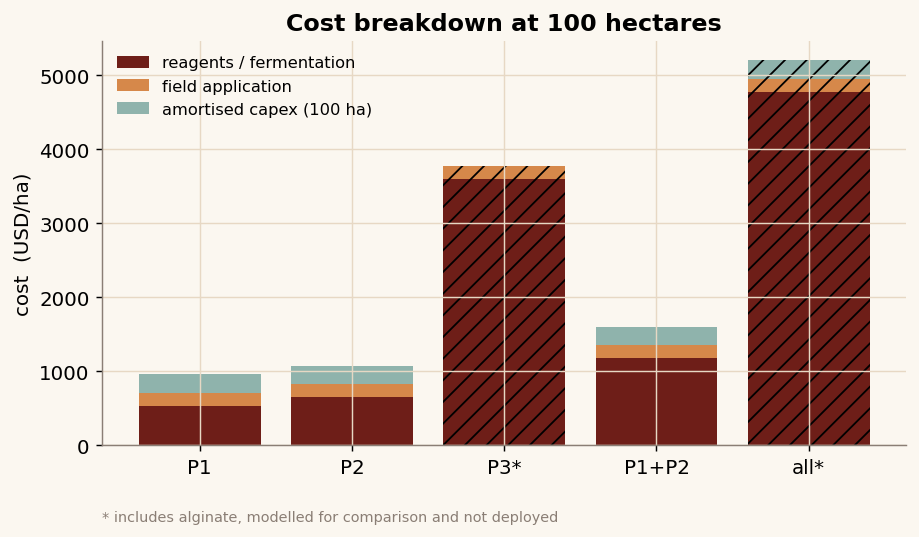
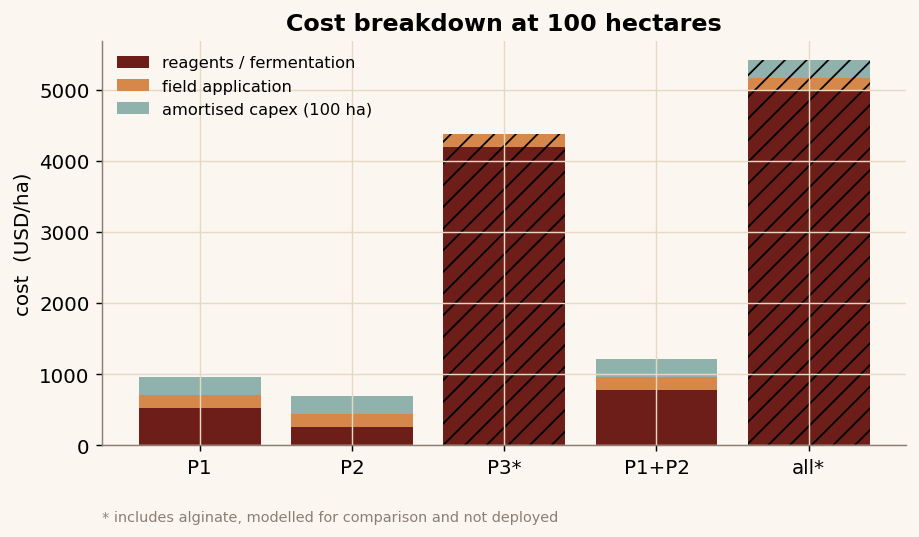
Scale MICP reagent with crust depth, reprice the baselines

diff --git a/src/lib/moduleSources.ts b/src/lib/moduleSources.ts
@@ -397,14 +397,14 @@ export const MODULE_SOURCES: Record<ModuleId, ModuleSources> = {
       {
         label: "Why our per-hectare figure is so far under that $135 per m³",
         detail:
-          "Spread over the 120 m³ of crust in a hectare, 650 USD is about 5 USD per m³. The gap is mostly real: those studies cement a whole soil column to a load-bearing strength, we grow a thin crust to resist wind, and our route makes carbonate from CO₂ rather than urea so it skips roughly 480 kg of urea per hectare. What remains unresolved is that the calcite cost here does not change when the crust depth changes, and depth is exactly what the comparison turns on.",
+          "650 USD buys the dose for a 12.5 mm crust, which is 125 m³ of soil in a hectare, so about 5 USD per m³. The dose scales with depth, so that per-m³ figure holds at any depth. The gap is mostly real: those studies cement a whole soil column to a load-bearing strength, we grow a thin crust to resist wind, and our route makes carbonate from CO₂ rather than urea so it skips roughly 480 kg of urea per hectare. The part we cannot yet check is whether one pore volume of reagent is really enough at depths well beyond the 12.5 mm field trial.",
         kind: "internal",
       },
       {
         label:
-          "Sodium-alginate market price, IMARC price trend (Sept 2025: US $13.2, Germany $10.6, Spain $8.9 kg⁻¹)",
+          "Sodium-alginate market price, IMARC price trend (Sept 2025: US $13.2, Germany $10.6, France $10.2, Spain $8.9 kg⁻¹)",
         detail:
-          "Our 9 USD per kg sits at the bottom of that spread and roughly 30 percent under the US price, so the alginate prong is costed optimistically.",
+          "We use 10.5 USD per kg, the middle of that spread. It is about 20 percent under the US price, so the alginate route is still costed slightly in its favour.",
         kind: "literature",
         url: "https://www.imarcgroup.com/sodium-alginate-price-trend",
       },
@@ -419,7 +419,7 @@ export const MODULE_SOURCES: Record<ModuleId, ModuleSources> = {
       {
         label: "Conventional baselines, and how soft they are",
         detail:
-          "Soilworks does not publish a price for Soiltac and gives its service life as anything from weeks to several years, so the 2800 USD per hectare chemical baseline is an estimate against a moving target. Published costs for the same kind of product come out higher, so if anything we are being hard on ourselves and the break-even area shown here is too large rather than too small. The concrete blanket figure is weaker still and should be read as a placeholder.",
+          "Soilworks does not publish a price for Soiltac and gives its service life as anything from weeks to several years, so the 2800 USD per hectare chemical baseline is an estimate against a moving target. Published costs for dust suppressants run from about 1,200 USD per hectare for a light copolymer blend to over 20,000 for heavier products. 2800 sits near the low end, so the break-even area shown here is more likely too large than too small. The concrete figure is sprayed concrete at 30 USD per m², the bottom of 2025 US contractor prices of 30 to 50 USD per m². It is a permanent surface rather than a treatment, so it sits on the chart for scale.",
         kind: "internal",
         url: "https://www.fs.usda.gov/t-d/pubs/pdf/99771207.pdf",
       },

diff --git a/src/lib/physics/constants.ts b/src/lib/physics/constants.ts
@@ -759,9 +759,23 @@ export const ECONOMIC_CALIB = {
   caReagentCostPerHa: calib(
     650,
     "USD·ha⁻¹",
-    "enzyme induction + Ca dosing per hectare",
+    "enzyme induction + Ca dosing for one hectare of crust at the reference depth below. Cross-checked against the Ulan Buh field recipe: 4 L·m⁻² of 0.2 M solution is ≈888 kg CaCl₂ per hectare, ≈$133 at bulk price, leaving ≈$517 for enzyme and inducer",
     "Cost calcium + inducer dosing for one treated hectare.",
     [200, 1500],
+  ),
+  /**
+   * The crust depth `caReagentCostPerHa` was costed at. Reagent is sprayed onto
+   * the surface and soaks roughly one pore volume down, so the dose scales with
+   * depth. Without this the calcite prong cost the same for a 5 mm crust as for
+   * a 50 mm one, which is the axis the comparison against published per-m³ MICP
+   * costs turns on.
+   */
+  caReagentReferenceDepthMm: calib(
+    12.5,
+    "mm",
+    "the crust the Ulan Buh field trial grew at 4 L·m⁻² and 0.2 M, which is where the per-hectare dose above comes from",
+    "Record the crust depth the dosing was costed against.",
+    [5, 30],
   ),
   co2CreditPerKg: calib(
     0.01,
@@ -772,11 +786,11 @@ export const ECONOMIC_CALIB = {
   ),
   // --- Prong 3: sodium alginate (purchased commodity) ---
   alginateCostPerKg: calib(
-    9.0,
+    10.5,
     "USD·kg⁻¹",
-    "food/technical-grade sodium alginate; within the 2024 bulk market band ≈ $6–12/kg (IMARC / Procurement Resource price trend)",
+    "food/technical-grade sodium alginate. IMARC price trend, Sept 2025: US $13.2, Germany $10.6, France $10.2, Spain $8.9 per kg. 10.5 is the middle of that spread; the earlier 9.0 sat at its floor",
     "Quote alginate + CaCl₂ crosslinker per kg applied.",
-    [4, 20],
+    [8, 20],
   ),
   alginateDoseKgPerHa: calib(
     400,
@@ -803,16 +817,16 @@ export const ECONOMIC_CALIB = {
   chemicalSprayCostPerHa: calib(
     2800,
     "USD·ha⁻¹",
-    'petrochemical dust-suppressant (polymer emulsion class; cf. USDA FS "Dust Palliative Selection and Application Guide", commercial Soiltac/Soilworks)',
+    "petrochemical dust suppressant. Published costs span a wide band: a light copolymer blend at ≈$490/acre (≈$1,200/ha), magnesium chloride at 0.3–0.5 gal/yd² and $0.80–1.50/gal (≈$2,900–9,000/ha), and chemical suppressants generally quoted at $0.50–2.00/yd² (≈$6,000–24,000/ha). 2800 is a deliberately low pick inside that band, so the comparison does not flatter us",
     "Vendor quote for conventional chemical stabiliser.",
-    [1500, 4000],
+    [1200, 24000],
   ),
   concreteBlanketCostPerHa: calib(
-    18500,
+    300000,
     "USD·ha⁻¹",
-    "hard-engineering blanket",
+    "hard-engineering blanket, priced off sprayed concrete at $30–50 m⁻² (Angi / HomeAdvisor 2025 contractor data, rising to $65 m⁻² in dense regions). 300000 USD·ha⁻¹ is $30 m⁻², the bottom of that range. The previous 18500 worked out at $1.85 m⁻², which no concrete surface can be laid for",
     "Contractor quote for concrete/aggregate matting.",
-    [10000, 30000],
+    [200000, 650000],
   ),
 } as const;
 

diff --git a/src/lib/moduleMath.ts b/src/lib/moduleMath.ts
@@ -307,14 +307,19 @@ export const MODULE_MATH: Record<ModuleId, ModuleMath> = {
       "Cost is built bottom-up per prong (fermentation for γ-PGA, feedstock + enzyme for CaCO₃, commodity purchase for alginate) then summed for the chosen combination and compared against conventional stabilisers.",
     blocks: [
       {
-        tex: "C_{\\text{combo}} = \\sum_{p \\in \\text{prongs}} C_p^{\\text{capex}} + A \\sum_{p} C_p^{\\text{opex/ha}}",
+        tex: "C_{\\text{combo}} = C^{\\text{capex}} + A \\left( \\sum_{p} C_p^{\\text{opex/ha}} + C^{\\text{app/ha}} \\right)",
         caption:
-          "Total cost of a combination: per-prong capital plus per-hectare operating cost over area A.",
+          "Total cost over area A. The two bacterial prongs share one bioprocess capex, and the field application pass is paid once per hectare whatever the combination.",
       },
       {
-        tex: "A_{\\text{break-even}} = \\frac{C^{\\text{capex}}}{C_{\\text{conv}}^{\\text{/ha}} - C^{\\text{opex/ha}}}",
+        tex: "C_2^{\\text{opex/ha}} = C_{\\text{Ca}}^{\\text{/ha}} \\, \\frac{h}{h_{\\text{ref}}} - p_{\\text{CO}_2} m_{\\text{CO}_2}",
         caption:
-          "Area at which the biological treatment undercuts the conventional chemical/concrete baseline.",
+          "The CaCO₃ dose soaks about one pore volume down, so it scales with crust depth h against the 12.5 mm depth it was costed at, less a small CO₂ credit.",
+      },
+      {
+        tex: "A_{\\text{break-even}} = \\frac{C^{\\text{capex}}}{C_{\\text{chem}}^{\\text{/ha}} - \\left( C^{\\text{opex/ha}} + C^{\\text{app/ha}} \\right)}",
+        caption:
+          "Area above which the treatment costs less than the chemical spray baseline. If the recurring cost is above the spray's, there is no break-even.",
       },
     ],
   },

diff --git a/src/lib/physics/economic.ts b/src/lib/physics/economic.ts
@@ -79,13 +79,22 @@ export function prongTreatmentCost(
 
   if (prong === 2) {
     // CaCO₃ / MICP: calcium + enzyme dosing, minus a CO₂ credit.
+    // The reagent is sprayed on and soaks about one pore volume down, so the
+    // dose goes with depth. Costing it flat made a 50 mm crust as cheap as a
+    // 5 mm one, and depth is exactly what separates this from the per-m³ figures
+    // published for full-depth biocementation.
+    const depthScale =
+      ctx.crustThicknessMm / cval(E.caReagentReferenceDepthMm);
     const co2KgPerHa =
       ((ctx.co2SequesteredGPerL ?? 0) / 1000) * (volumePerHa * 1000); // g/L × L(=m³·1000) → kg
     const credit = co2KgPerHa * cval(E.co2CreditPerKg);
     return {
       prong: 2,
       capex: cval(E.bacterialSetupCapex),
-      opexPerHa: Math.max(0, cval(E.caReagentCostPerHa) - credit),
+      opexPerHa: Math.max(
+        0,
+        cval(E.caReagentCostPerHa) * depthScale - credit,
+      ),
       co2PerHa: -co2KgPerHa, // sequestered
     };
   }

diff --git a/public/code/economic.py b/public/code/economic.py
@@ -7,12 +7,13 @@ carbon-market literature, plus break-even area vs a conventional chemical spray.
 
 Exact port of src/lib/physics/economic.ts.
   Prong 1 (gamma-PGA)  : fermentation (glucose + salts + utilities), scaled by broth yield
-  Prong 2 (CaCO3/MICP) : calcium + enzyme dosing, minus a CO2 credit
+  Prong 2 (CaCO3/MICP) : calcium + enzyme dosing, scaled by crust depth, minus a CO2 credit
   Prong 3 (alginate)   : purchased commodity biopolymer + crosslinker
   Bacterial prongs (1,2) share one bioprocess capex; alginate needs none.
 
 Constants from ECONOMIC_CALIB (constants.ts): capex 25000 USD, application 180 USD/ha,
-chemical baseline 2800 USD/ha, caReagent 650 USD/ha, alginate 9 USD/kg x 400 kg/ha, etc.
+chemical baseline 2800 USD/ha, concrete 300000 USD/ha (30 USD/m2), caReagent 650 USD/ha
+for a 12.5 mm crust, alginate 10.5 USD/kg x 400 kg/ha, etc.
 Every figure is checked against a cited study (see moduleSources). Run:  python economic.py
 """
 
@@ -30,9 +31,10 @@ plt.rcParams.update({
 # ECONOMIC_CALIB
 GLUCOSE_KG, MEDIA_L, UTIL_L, GLUC_FRAC = 0.4, 0.08, 0.04, 0.03
 CA_REAGENT_HA, CO2_CREDIT_KG = 650.0, 0.01
-ALG_KG, ALG_DOSE_HA = 9.0, 400.0
+CA_REAGENT_REF_MM = 12.5          # crust depth the reagent dose was costed at
+ALG_KG, ALG_DOSE_HA = 10.5, 400.0
 CAPEX, APPLICATION_HA = 25000.0, 180.0
-CHEM_HA, CONCRETE_HA = 2800.0, 18500.0
+CHEM_HA, CONCRETE_HA = 2800.0, 300000.0
 
 CTX = dict(crust_mm=5.0, pga_yield_g_per_L=25.0, pga_demand_kg_per_m3=2.0,
            co2_g_per_L=8.0)
@@ -50,8 +52,10 @@ def prong_opex(prong, ctx=CTX):
         per_liter = GLUC_FRAC * GLUCOSE_KG + MEDIA_L + UTIL_L
         return liters * per_liter
     if prong == 2:
+        # The reagent soaks about one pore volume down, so the dose scales with depth.
+        depth_scale = ctx["crust_mm"] / CA_REAGENT_REF_MM
         co2_kg = (ctx["co2_g_per_L"] / 1000.0) * (vol * 1000.0)
-        return max(0.0, CA_REAGENT_HA - co2_kg * CO2_CREDIT_KG)
+        return max(0.0, CA_REAGENT_HA * depth_scale - co2_kg * CO2_CREDIT_KG)
     return ALG_DOSE_HA * ALG_KG
 
 
@@ -80,8 +84,8 @@ def figures():
     ax1.set_xlabel("treated area (ha)")
     ax1.set_ylabel("all-in cost  (USD/ha)")
     ax1.set_title("Cost per hectare against treated area")
-    ax1.set_ylim(0, 4000)
-    ax1.legend(frameon=False, fontsize=9)
+    ax1.set_ylim(0, 5000)
+    ax1.legend(frameon=False, fontsize=9, loc="upper right", bbox_to_anchor=(1.0, 0.84))
     fig1.tight_layout()
     figs.append((fig1, "economic-1.png"))
 

diff --git a/python_models/economic.py b/python_models/economic.py
@@ -7,12 +7,13 @@ carbon-market literature, plus break-even area vs a conventional chemical spray.
 
 Exact port of src/lib/physics/economic.ts.
   Prong 1 (gamma-PGA)  : fermentation (glucose + salts + utilities), scaled by broth yield
-  Prong 2 (CaCO3/MICP) : calcium + enzyme dosing, minus a CO2 credit
+  Prong 2 (CaCO3/MICP) : calcium + enzyme dosing, scaled by crust depth, minus a CO2 credit
   Prong 3 (alginate)   : purchased commodity biopolymer + crosslinker
   Bacterial prongs (1,2) share one bioprocess capex; alginate needs none.
 
 Constants from ECONOMIC_CALIB (constants.ts): capex 25000 USD, application 180 USD/ha,
-chemical baseline 2800 USD/ha, caReagent 650 USD/ha, alginate 9 USD/kg x 400 kg/ha, etc.
+chemical baseline 2800 USD/ha, concrete 300000 USD/ha (30 USD/m2), caReagent 650 USD/ha
+for a 12.5 mm crust, alginate 10.5 USD/kg x 400 kg/ha, etc.
 Every figure is checked against a cited study (see moduleSources). Run:  python economic.py
 """
 
@@ -30,9 +31,10 @@ plt.rcParams.update({
 # ECONOMIC_CALIB
 GLUCOSE_KG, MEDIA_L, UTIL_L, GLUC_FRAC = 0.4, 0.08, 0.04, 0.03
 CA_REAGENT_HA, CO2_CREDIT_KG = 650.0, 0.01
-ALG_KG, ALG_DOSE_HA = 9.0, 400.0
+CA_REAGENT_REF_MM = 12.5          # crust depth the reagent dose was costed at
+ALG_KG, ALG_DOSE_HA = 10.5, 400.0
 CAPEX, APPLICATION_HA = 25000.0, 180.0
-CHEM_HA, CONCRETE_HA = 2800.0, 18500.0
+CHEM_HA, CONCRETE_HA = 2800.0, 300000.0
 
 CTX = dict(crust_mm=5.0, pga_yield_g_per_L=25.0, pga_demand_kg_per_m3=2.0,
            co2_g_per_L=8.0)
@@ -50,8 +52,10 @@ def prong_opex(prong, ctx=CTX):
         per_liter = GLUC_FRAC * GLUCOSE_KG + MEDIA_L + UTIL_L
         return liters * per_liter
     if prong == 2:
+        # The reagent soaks about one pore volume down, so the dose scales with depth.
+        depth_scale = ctx["crust_mm"] / CA_REAGENT_REF_MM
         co2_kg = (ctx["co2_g_per_L"] / 1000.0) * (vol * 1000.0)
-        return max(0.0, CA_REAGENT_HA - co2_kg * CO2_CREDIT_KG)
+        return max(0.0, CA_REAGENT_HA * depth_scale - co2_kg * CO2_CREDIT_KG)
     return ALG_DOSE_HA * ALG_KG
 
 
@@ -80,8 +84,8 @@ def figures():
     ax1.set_xlabel("treated area (ha)")
     ax1.set_ylabel("all-in cost  (USD/ha)")
     ax1.set_title("Cost per hectare against treated area")
-    ax1.set_ylim(0, 4000)
-    ax1.legend(frameon=False, fontsize=9)
+    ax1.set_ylim(0, 5000)
+    ax1.legend(frameon=False, fontsize=9, loc="upper right", bbox_to_anchor=(1.0, 0.84))
     fig1.tight_layout()
     figs.append((fig1, "economic-1.png"))
 
